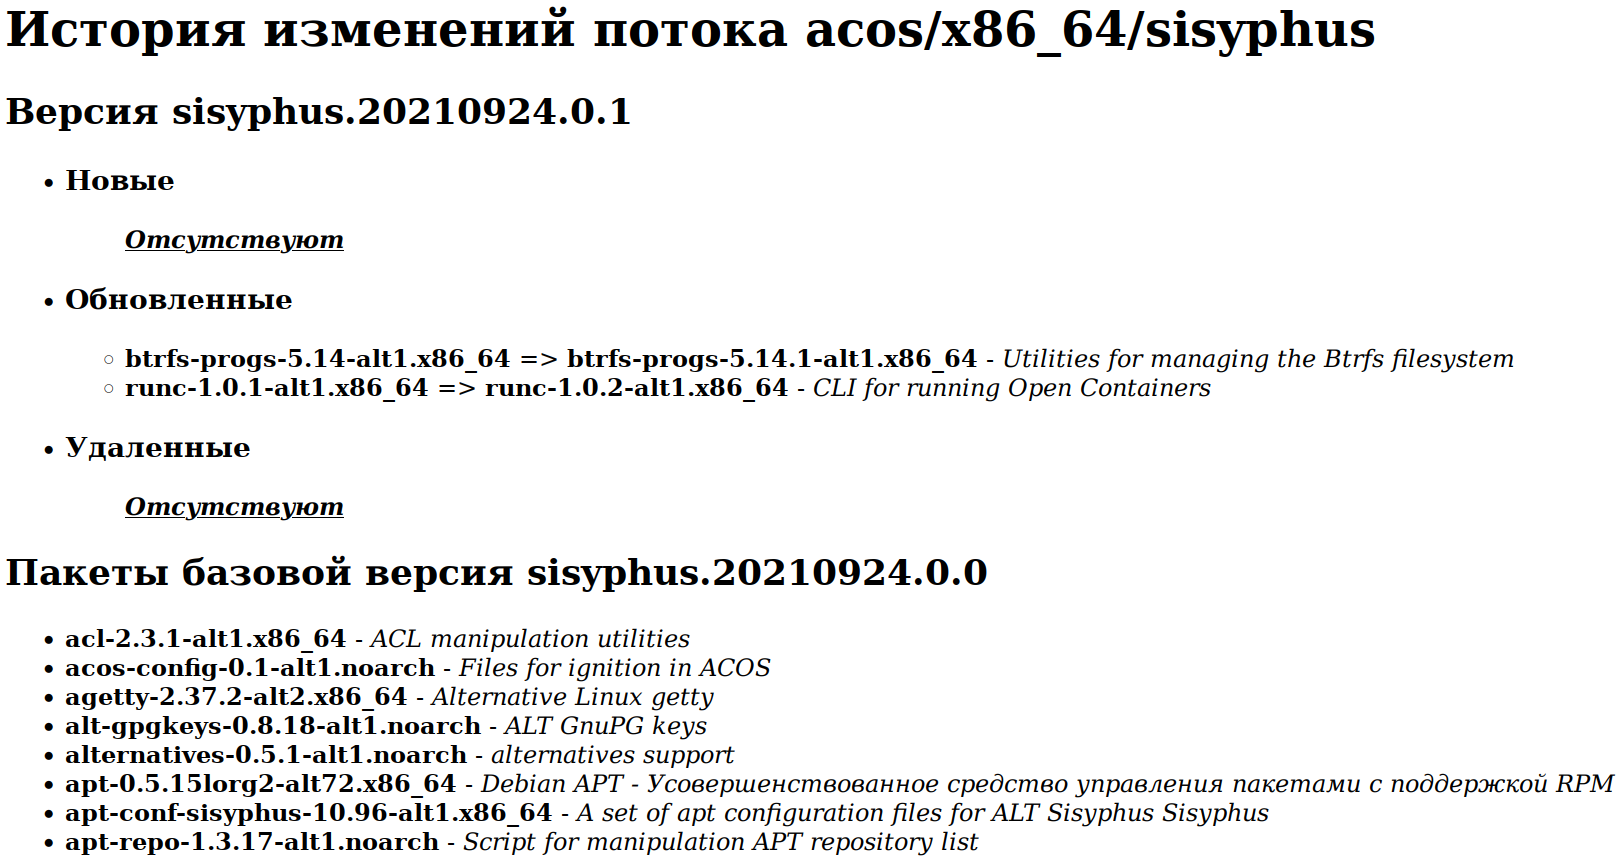
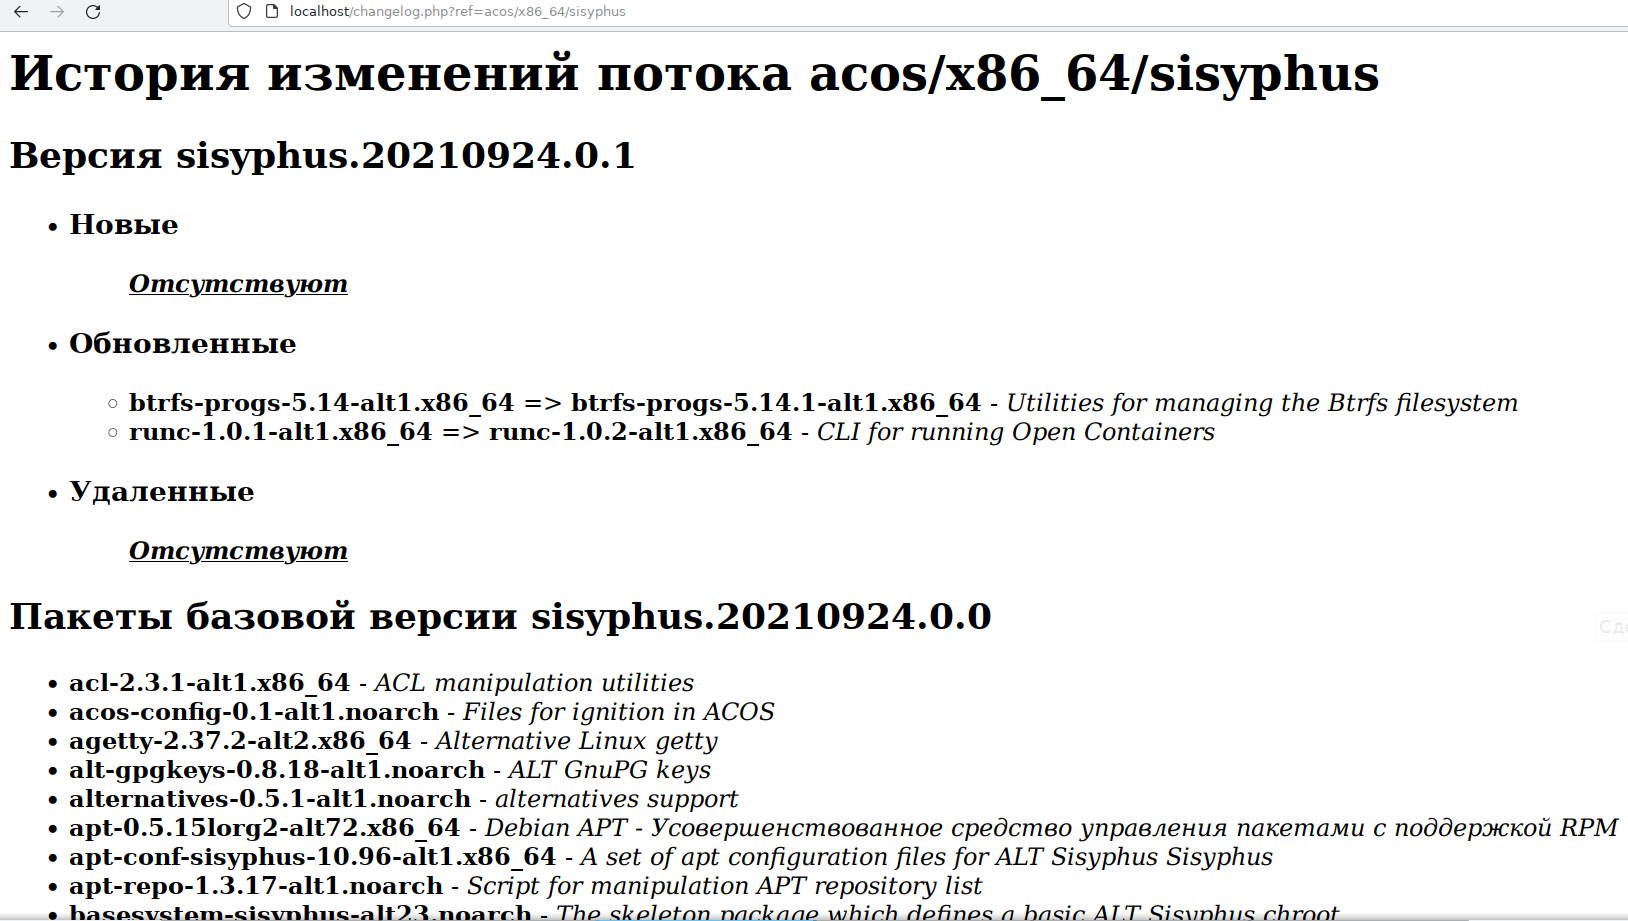
+

diff --git a/ACOS/changelog.php b/ACOS/changelog.php
@@ -107,7 +107,7 @@ $rpmList = $repo->listRPMs($firstVersion);
 $rpmsInfo = $repo->rpmsInfo(array_keys($rpmList), $version, ['Summary']);
 
 ?>
-<h2>Пакеты базовой версия <?= $firstVersion?></h2>
+<h2>Пакеты базовой версии <?= $firstVersion?></h2>
 <ul>
 <?php
 // echo "<pre>RpmList" . print_r($rpmList, 1) . "</pre>";
